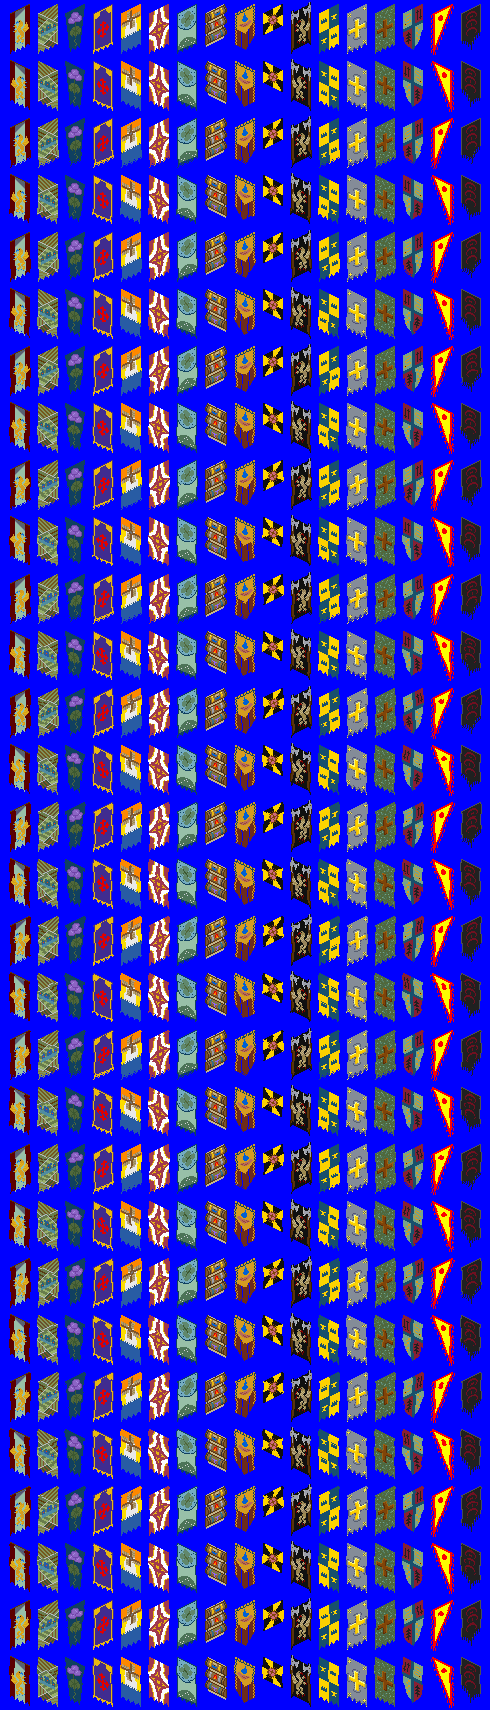
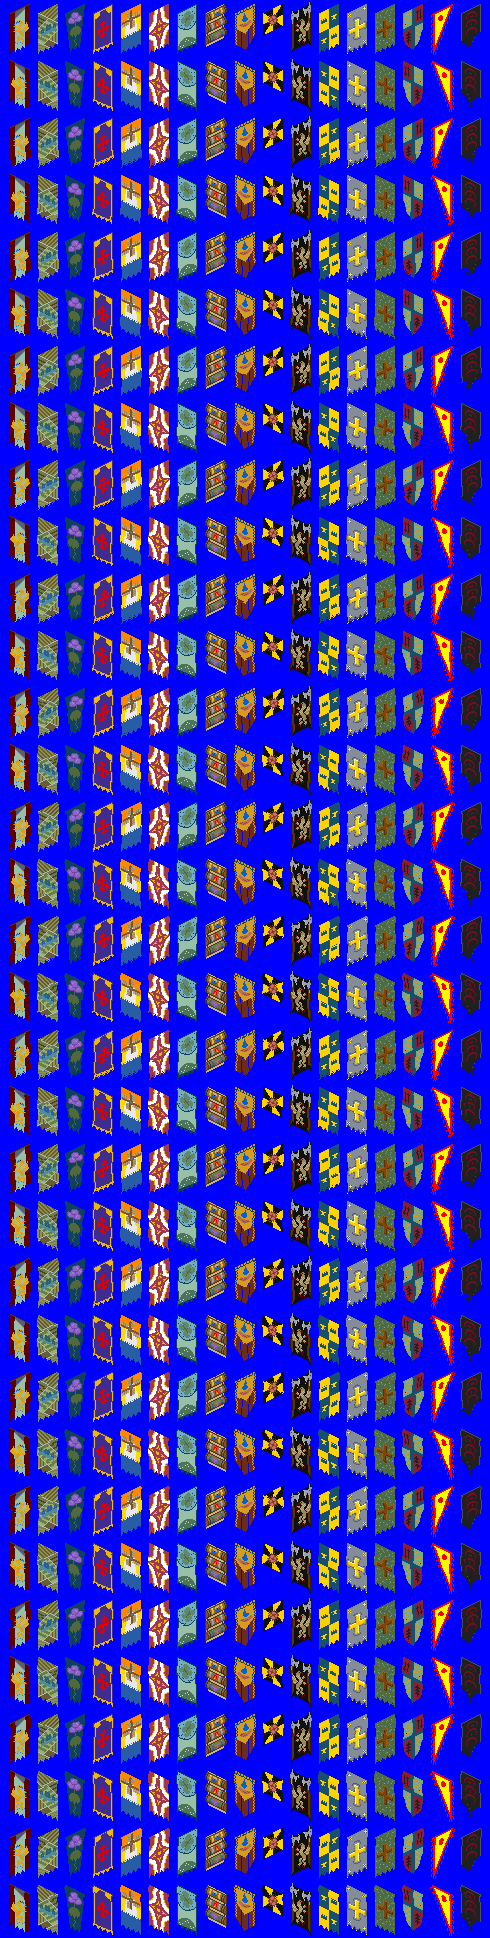
Tiles now animate on 256 Loop, added extra wave frames

diff --git a/README.md b/README.md
@@ -1,0 +1,10 @@
+#Fantasy Banners - Objects
+
+This is a small object set to add fantasy banners to OpenTTD of several nations loosely based off amalgamations of Middle Aged-Early Modern European and Asian countries. (And the Gnomish Haierarchy, which is an Anbennar item.)
+
+The flags have a small wave animation that play every few seconds!
+
+The original aseprite art files are included here, along with my hacky image magick script to generate the animations. (Though color corrections to the final frames are manually done in aseprite, since imagemagick doesn't support fixed palettes)
+
+##How they look in-game
+![Image](flags.png "flags")
